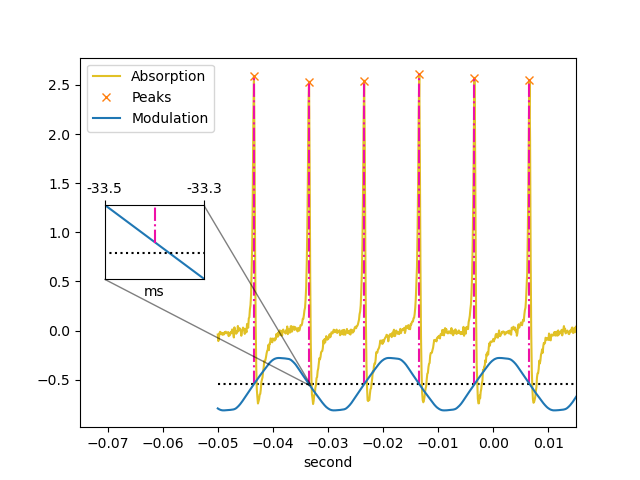
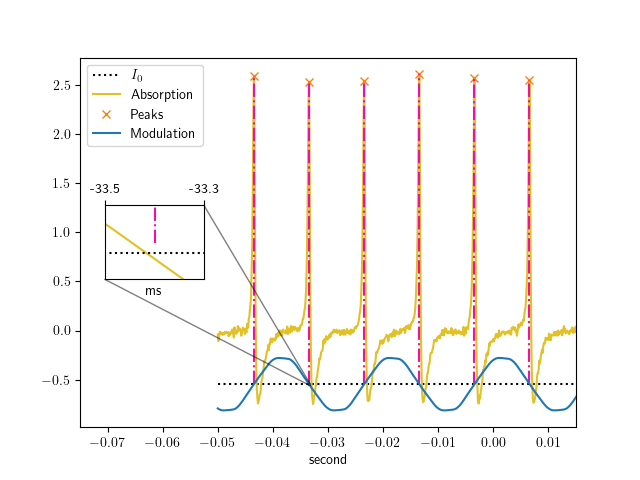
Use tex in labels, and label I_0

diff --git a/x2.ESR/main.py b/x2.ESR/main.py
@@ -11,6 +11,8 @@ from scipy.optimize import curve_fit
 # To calculate errors in fit parameters
 from scipy.stats import distributions
 
+plt.rcParams['text.usetex'] = True
+
 R = (ufloat(0.33,0.05*0.33) + ufloat(0.47,0.1*0.47))*ureg.ohm
 
 oscillator_feedback_knob = ufloat(30,1)
@@ -98,6 +100,7 @@ def plotAndFit(df):
         I_0_fit.m.n,
         df['t'].min(), df['t'].max(),
         colors='black',
+        label="$I_0$",
         linestyles='dotted'
     )
 
